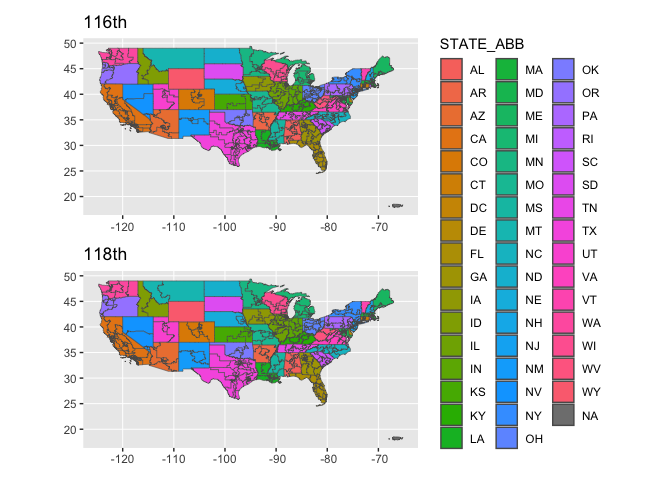
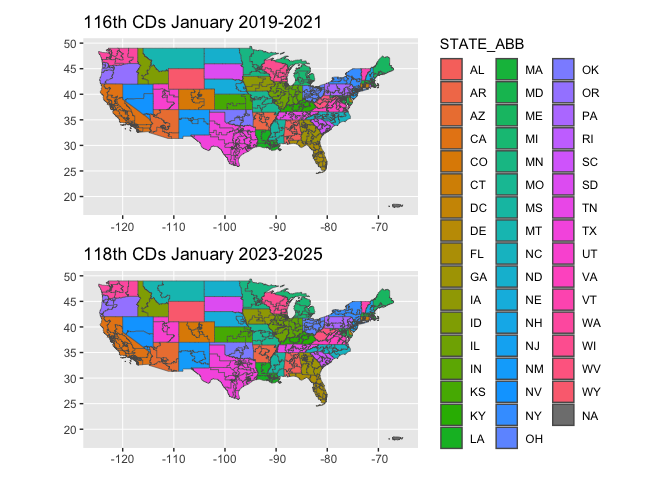
add years

Changed region(s): [[0.1875, 0.5, 0.5, 0.5625], [0.1875, 0.0312, 0.5, 0.0625]]

diff --git a/README.md b/README.md
@@ -55,7 +55,7 @@ ggplot() +
       district = DISTRICT) +
   geom_district_116(drop_state = c("Alaska", "Hawaii")) +
   aes(fill = STATE_ABB) + 
-  labs(title = "116th")->
+  labs(title = "116th CDs January 2019-2021")->
 plot_116th
 
 districts_118_flat |>
@@ -65,7 +65,7 @@ ggplot() +
       district = DISTRICT) +
   geom_district_118(drop_state = c("Alaska", "Hawaii")) +
   aes(fill = STATE_ABB) + 
-  labs(title = "118th") ->
+  labs(title = "118th CDs January 2023-2025") ->
 plot_118th
 
 library(patchwork)
@@ -85,7 +85,7 @@ ggplot() +
   aes(state = STATE_NAME, 
       district = DISTRICT) +
   geom_district_116(keep_state = "New York") + 
-  labs(title = "116th") ->
+  labs(title = "116th CDs January 2019-2021") ->
 plot_116th_ny
 
 districts_118_flat |>
@@ -93,7 +93,7 @@ ggplot() +
   aes(state = STATE_NAME, 
       district = DISTRICT) +
   geom_district_118(keep_state = "New York") + 
-  labs(title = "118th")->
+  labs(title = "118th CDs January 2023-2025")->
 plot_118th_ny
 
 library(patchwork)
